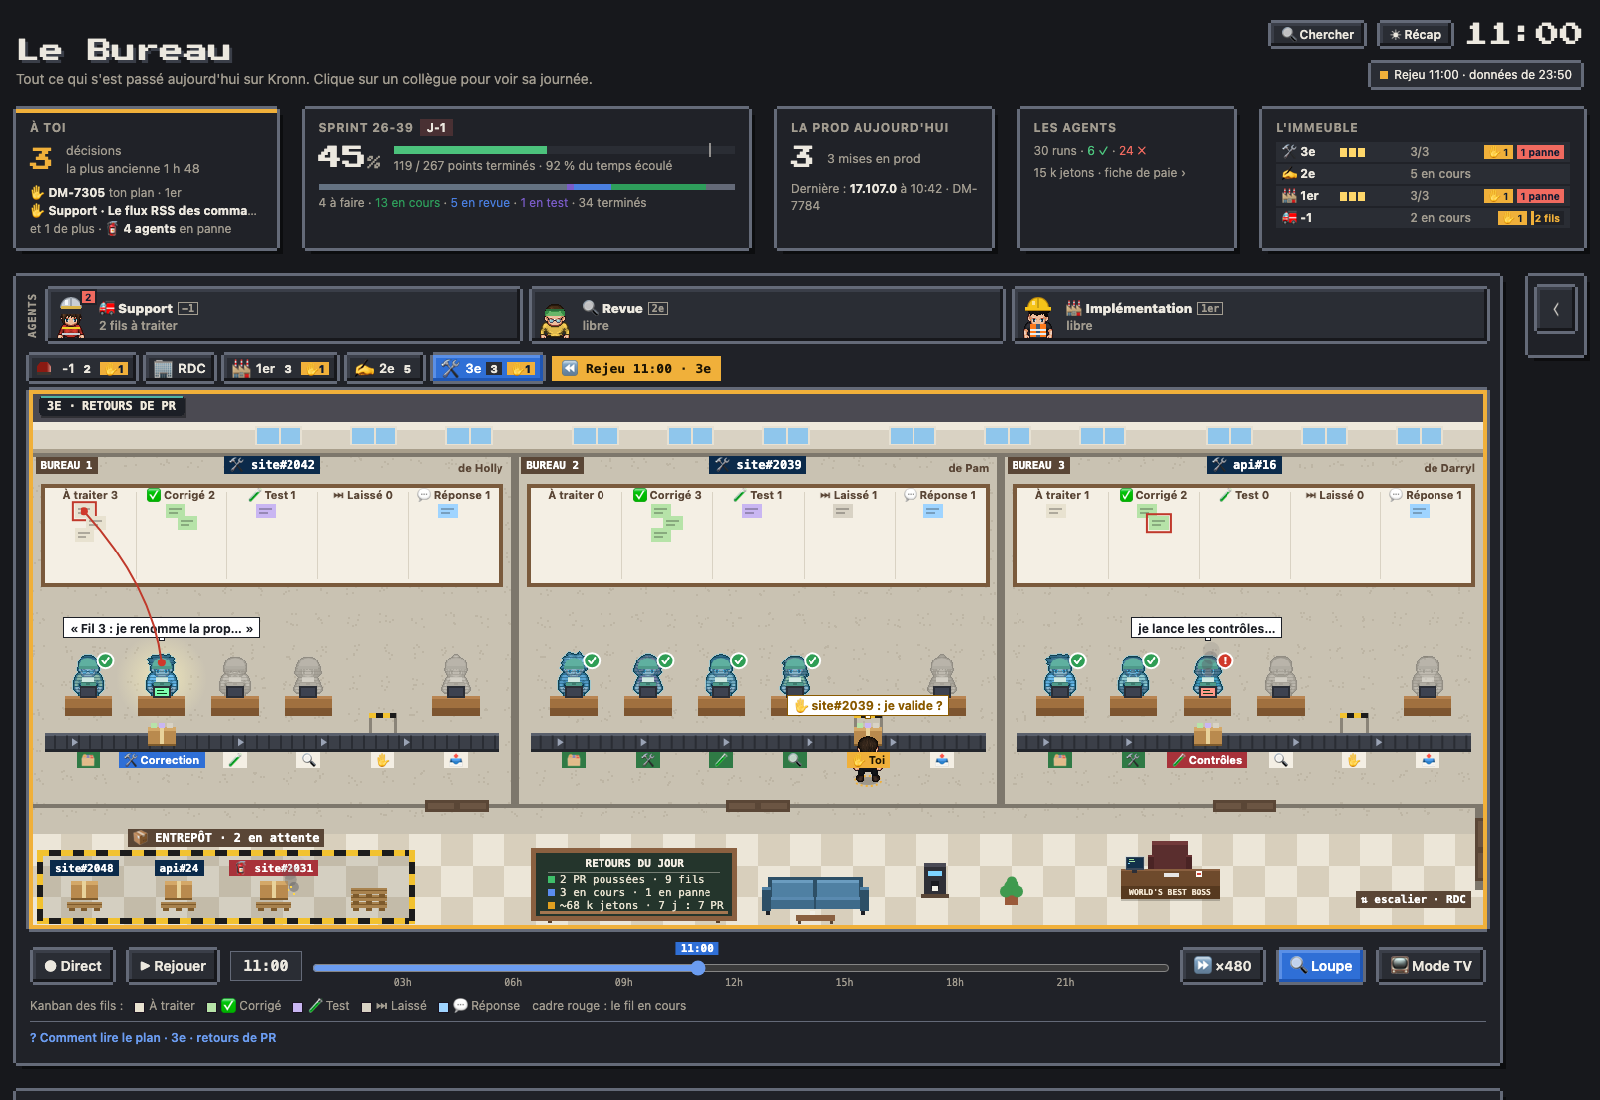
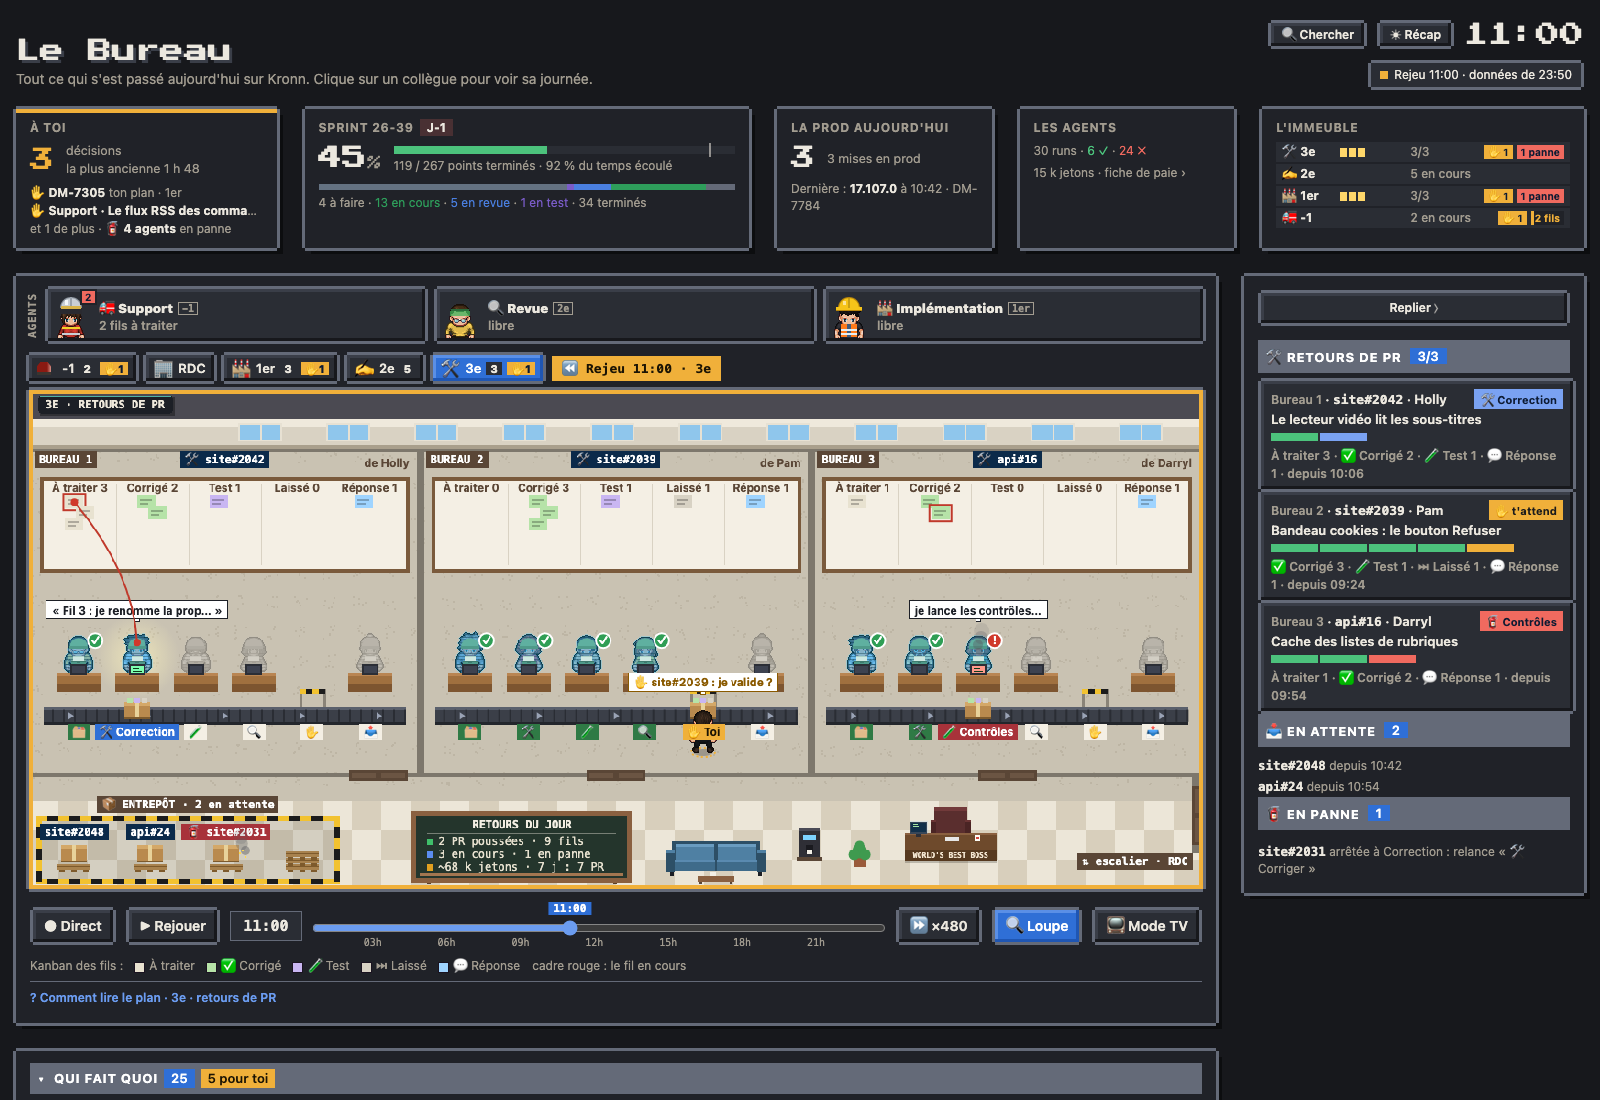
feat(etages): le 3e à 40 cases : bureaux de 13,3 cases, Kanban sans pictogramme sur le plan

diff --git a/page/src/68-retours.js b/page/src/68-retours.js
@@ -18,6 +18,7 @@ const RT_POSTES=[{k:'prepare',i:'🗂',n:'Préparation',d:'récupère les fils d
 const RT_COLS=[{k:'a_traiter',n:'À traiter',c:'#e8e2d0'},{k:'corrige',n:'✅ Corrigé',c:'#b6e3a8'},{k:'test',n:'🧪 Test',c:'#c9b6f2'},
   {k:'laisse',n:'⏭ Laissé',c:'#d8d2c4'},{k:'reponse',n:'💬 Réponse',c:'#9fd4ff'}];
 // « Comment lire le plan » au 3e (46-legende.js) : la légende du Kanban, puis les onglets ; les postes viennent de RT_POSTES
+const rtColTxt=c=>c.n.replace(/^[^\p{L}\d]+\s/u,''); // l'en-tête sur le plan, sans son pictogramme
 const RT_HELP={bar:()=>'<span>Kanban des fils :</span>'+legSwatches(Object.fromEntries(RT_COLS.map(c=>[c.k,[c.c,c.n]])))+'<span>cadre rouge : le fil en cours</span>',postes:()=>[['',RT_POSTES]],
   qui:'<p><b>Agents</b> : un par poste, en chirurgiens. Toute l\'équipe monte avec la PR et reste jusqu\'au push ; au bureau 1 libre, elle somnole.</p><p><b>Bernard</b> sort de la porte de l\'escalier avec la PR et la redescend une fois poussée.</p><p>Un agent en gris pâle : son poste attend, personne n\'y travaille en ce moment (au RDC, la couleur d\'un hologramme dit sa famille, pas son activité).</p>'+
     '<p><b>Le boss</b>, à son bureau du couloir, va à la barrière du bureau qui attend depuis le plus longtemps ; les autres attendent leur tour. Ici, ta décision, c\'est la barrière.</p>',
@@ -25,17 +26,17 @@ const RT_HELP={bar:()=>'<span>Kanban des fils :</span>'+legSwatches(Object.fromE
     '<p><b>Le couloir</b>, de gauche à droite : l\'entrepôt (une palette par PR qui attend un bureau, les pannes en rouge), la porte du bureau 1, le tableau RETOURS DU JOUR (PR poussées et fils, en cours et pannes, jetons ; le détail est dans la page « Retours · bilan »), le banc, le café, le bureau du boss et l\'escalier.</p>',
   moments:'<p><b>✋ À toi</b> : les corrections attendent ta validation.</p><p><b>🧯 Contrôles rouges</b> : le correctif est annulé, la PR attend une relance.</p><p><b>📤 Poussée</b> : les réponses sont postées, Bernard redescend la PR.</p>'};
 const RT_ST={ok:['ok','a travaillé'],run:['run','au travail'],err:['err','en panne'],gate:['wait','t\'attend'],wait:['','attend son tour']};
-// une rangée de trois bureaux au-dessus du couloir : 46 × 17 cases (AT_ROWS, 68-atelier.js)
+// une rangée de trois bureaux au-dessus du couloir : 40 × 17 cases, comme le RDC en largeur (AT_ROWS, 68-atelier.js)
 AT_ROWS[3]=17;
-const RT_N=3, RT_W=46/3, RT_H=11.2, RT_Y=2, RT_HALL=[13.2,17], RT_LANE=14.2*AT_TS;
+const RT_N=3, RT_COLS_N=AT_W/AT_TS, RT_W=RT_COLS_N/3, RT_H=11.2, RT_Y=2, RT_HALL=[13.2,17], RT_LANE=14.2*AT_TS;
 // le couloir, de gauche à droite : l'entrepôt (une zone de palettes au sol, comme au 1er et au 2e), la porte du bureau 1
 // juste après, le tableau RETOURS DU JOUR, le banc, le café, le bureau du boss, la porte de l'escalier
-const RT_DEPOT={x0:.25*AT_TS,x1:12.2*AT_TS,y0:14.5*AT_TS,y1:16.85*AT_TS}, RT_DOOR1=13.5*AT_TS;
-const RT_WINDOWS=[7,10,13,17,20,23,27,30,33,37,40,43]; // en cases : à droite du nom de l'étage, comme au RDC
+const RT_DEPOT={x0:.25*AT_TS,x1:10.6*AT_TS,y0:14.5*AT_TS,y1:16.85*AT_TS}, RT_DOOR1=11.9*AT_TS;
+const RT_WINDOWS=[7,10,13,16,19,22,25,28,31,34,37]; // en cases : à droite du nom de l'étage, comme au RDC
 // RT_STAIRS : derrière la porte de l'escalier, au bout du couloir dans le mur de droite comme l'entrée du RDC (stairDoor,
 // 68-atelier.js) ; Bernard en sort et y rentre
-const RT_DESK={x:36*AT_TS,y:15.6*AT_TS}, RT_STAIRS={x:46*AT_TS+50,y:RT_LANE};
-const RT_STAIR={x:46*AT_TS-12,y:13.5*AT_TS,w:12,h:2*AT_TS,vert:true,wall:[46*AT_TS-12,13.2*AT_TS,12,2.6*AT_TS]}, RT_EXIT={x:46*AT_TS-30,y:13.5*AT_TS-12};
+const RT_DESK={x:31.4*AT_TS,y:15.6*AT_TS}, RT_STAIRS={x:AT_W+50,y:RT_LANE};
+const RT_STAIR={x:AT_W-12,y:13.5*AT_TS,w:12,h:2*AT_TS,vert:true,wall:[AT_W-12,13.2*AT_TS,12,2.6*AT_TS]}, RT_EXIT={x:AT_W-30,y:13.5*AT_TS-12};
 let RETOURS=null, RTSEL=null, RT_KB=null, RT_HITS=[], RT_LIT=[];
 let RTPOSTE=null, RTQ=false; // la fiche d'un poste du bureau ouvert (clic sur son agent) ; la file du couloir
 function readRetours(src){
@@ -148,7 +149,7 @@ const rtHome=()=>({x:RT_DESK.x,y:RT_DESK.y}); // assis à son bureau du couloir
 // ---------- décor ----------
 function rtBackground(){
   const c=document.createElement('canvas');c.width=AT_W;c.height=AT_H;const g=c.getContext('2d'), T=AT_TS;
-  for(let y=0;y<AT_ROWS[3];y++)for(let x=0;x<46;x++)drawFloor(g,x,y,y>=RT_HALL[0]&&y<RT_HALL[1]?'tiles':'carpet');
+  for(let y=0;y<AT_ROWS[3];y++)for(let x=0;x<RT_COLS_N;x++)drawFloor(g,x,y,y>=RT_HALL[0]&&y<RT_HALL[1]?'tiles':'carpet');
   R(g,0,0,AT_W,T,'#4b4a52');R(g,0,T,AT_W,8,'#efe9dc');R(g,0,T+8,AT_W,24,'#d9d2c3');R(g,0,T+28,AT_W,4,'#a99f8c');
   for(const z of RT_G){R(g,z.x0,z.y0,z.w,4,'#7d776c');R(g,z.x0,z.y0+z.h-4,z.w,4,'#7d776c');R(g,z.x0,z.y0,4,z.h,'#7d776c');R(g,z.x0+z.w-4,z.y0,4,z.h,'#7d776c');
     woodDoor(g,z.door.x-T,z.y0+z.h-8,2*T,12,2,false);} // la porte en bois, sur le couloir
@@ -163,17 +164,20 @@ function rtBoard(z,r){
   const {x,y,w,h}=z.kb;R(ctx,x-4,y-4,w+8,h+8,'#7a5a3c');R(ctx,x,y,w,h,'#f4efe4');
   const cw=w/RT_COLS.length;let hl=null;
   RT_COLS.forEach((c,j)=>{const cx=x+j*cw, l=r?(r.fils||[]).filter(f=>f.col===c.k):[];if(j)R(ctx,cx,y+4,1,h-8,'#d9d2c3');
-    atTxt(c.n+(r?' '+l.length:''),cx+cw/2,y+11,'#5a4636','bold 11px system-ui,sans-serif');
+    // à 40 cases, une colonne fait ~2,5 cases : sur le plan, l'en-tête n'a pas de pictogramme (la couleur des post-its le dit ;
+    // la légende et la fiche le gardent)
+    const f='bold 12px system-ui,sans-serif', t=rtColTxt(c)+(r?' '+l.length:'');
+    atTxt(t,cx+cw/2,y+12,'#5a4636',f);
     l.slice(0,6).forEach((f,q)=>{const px=cx+cw/2-10+(q%2?6:-6), py=y+16+q*12;rtPostit(px,py,c.c,f.cur);if(f.cur)hl={x:px+10,y:py+7};});});
   atHitRt('board',x,y,w,h,{i:z.i});
   return hl;
 }
 function rtLate(people,f,y){people.push([{pos:{x:0,y:y==null?1e6:y}},null,false,f]);}
-const rtPill=(p,s,x,y)=>atPill(atPosteLbl(p,['run','err','gate'].includes(s)),x,y,{run:'#2f6fd6',ok:'#2f7a45',err:'#a8323a',gate:WAIT_BG}[s]||'#f4efe4',s==='gate'?WAIT_INK:s?'#fff':'#3a3530','bold 11px system-ui,sans-serif');
+const rtPill=(p,s,x,y)=>atPill(atPosteLbl(p,['run','err','gate'].includes(s)),x,y,{run:'#2f6fd6',ok:'#2f7a45',err:'#a8323a',gate:WAIT_BG}[s]||'#f4efe4',s==='gate'?WAIT_INK:s?'#fff':'#3a3530','bold 12px system-ui,sans-serif');
 // ---------- un bureau ----------
 function rtRoom(r,i,now,people){
   const z=RT_G[i], T=AT_TS, lv=RT_MEM.leaving[i];
-  rtLate(people,()=>atPill('BUREAU '+(i+1),z.x0+38,z.y0+16,'#5a4636','#fff','bold 11px ui-monospace,Menlo,monospace'),1);
+  rtLate(people,()=>atPill('BUREAU '+(i+1),z.x0+40,z.y0+16,'#5a4636','#fff','bold 12px ui-monospace,Menlo,monospace'),1);
   const hl=rtBoard(z,r);
   atBelt(z.x0+.5*T,z.ry,z.w-T,.6*T,!!r,now,1);
   if(!r){ // libre : les bureaux éteints ; au bureau 1, l'équipe somnole à son poste, ailleurs personne
@@ -187,11 +191,11 @@ function rtRoom(r,i,now,people){
     atHitRt('room',z.x0,z.y0,z.w,z.h,{i});return;
   }
   const cur=rtCur(r), boss=RT_MEM.boss, here=boss&&boss.target===i&&boss.arrived;
-  rtLate(people,()=>{atPill('🛠 '+rtName(r),z.x0+z.w/2,z.y0+16,'#0b2a4a','#fff','bold 12px ui-monospace,Menlo,monospace');const w=rtWho(r);if(w)atTxt('de '+w,z.x0+z.w-12,z.y0+19,'#5a4636','bold 11px system-ui','right');},1);
+  rtLate(people,()=>{atPill('🛠 '+rtName(r),z.x0+z.w/2,z.y0+16,'#0b2a4a','#fff','bold 12px ui-monospace,Menlo,monospace');const w=rtWho(r);if(w)atTxt('de '+w,z.x0+z.w-12,z.y0+20,'#5a4636','bold 12px system-ui','right');},1);
   RT_POSTES.forEach((p,j)=>{const {x,y}=z.pts[j], s=rtState(r,p);
     if(p.gate){R(ctx,x-14,z.ry-20,3,20,'#8a8478');R(ctx,x+12,z.ry-20,3,20,'#8a8478');for(let q=0;q<4;q++)R(ctx,x-14+q*7,z.ry-20,7,5,q%2?'#1c1c1c':'#f2c230');
       if(s==='gate'&&!here)rtLate(people,()=>{if(waitOn(now))atBadge(x,z.ry-34,'✋',WAIT_BG);
-        if(boss&&boss.target!=null&&boss.target!==i)atPill('✋ en file : le boss est au bureau '+(boss.target+1),x,z.ry-56,WAIT_BG,WAIT_INK,'bold 11px system-ui,sans-serif');},1e6);
+        if(boss&&boss.target!=null&&boss.target!==i)atPill('✋ en file : le boss est au bureau '+(boss.target+1),x,z.ry-56,WAIT_BG,WAIT_INK,'bold 12px system-ui,sans-serif');},1e6);
       rtLate(people,()=>rtPill(p,s,x,z.ry+.6*T+12),1e6-2);atHitRt('agent',x-16,z.ry-40,32,48,{i,k:p.k});return;}
     rtLate(people,()=>rtPill(p,s,x,z.ry+.6*T+12),1e6-2);
     const id=rtCrewId(i,p.k), pop=lvPop(RT_LV,id,s==='ok',now);
@@ -237,15 +241,15 @@ function rtJourAt(t){
   return {pousses:Math.max(0,n('pousses')-after),cours:rtRoomsAt(t).length,pannes,semaine:Math.max(0,n('semaine')-after),fils:n('fils'),tok:n('tok')};
 }
 function rtDayBoard(){
-  const S=AT_TS, j=(RETOURS&&RETOURS.jour)||{}, n=k=>+j[k]||0, bx=16*S, by=14.6*S, bw=6.2*S, bh=64, ink='#e8e2d0';
+  const S=AT_TS, j=(RETOURS&&RETOURS.jour)||{}, n=k=>+j[k]||0, bx=13.2*S, by=14.5*S, bw=7.2*S, bh=68, ink='#e8e2d0';
   R(ctx,bx+12,by+bh,4,7,'#5a3e28');R(ctx,bx+bw-16,by+bh,4,7,'#5a3e28');
   R(ctx,bx-5,by-5,bw+10,bh+10,'#8a6040');R(ctx,bx,by,bw,bh,'#24352c');R(ctx,bx+4,by+bh-5,bw-8,3,'#a37650');
-  atTxt('RETOURS DU JOUR',bx+bw/2,by+14,'#f4efe4','bold 11px ui-monospace,Menlo,monospace');R(ctx,bx+12,by+19,bw-24,1,'rgba(244,239,228,.4)');
+  atTxt('RETOURS DU JOUR',bx+bw/2,by+14,'#f4efe4','bold 12px ui-monospace,Menlo,monospace');R(ctx,bx+12,by+19,bw-24,1,'rgba(244,239,228,.4)');
   const r=rtLive()||releveNear(RETOURS)?null:rtJourAt(T), rows=r?[['#3fbf6a',[plural(r.pousses,'PR poussée','PR poussées')+' · ',ink],[relTxt(r.fils+' fils'),REL_INK]],
     ['#5b8def',[r.cours+' en cours · '+r.pannes+' en panne',ink]],['#e0a020',[relTxt(Math.round(r.tok/1e3)+' k jet.'),REL_INK],[' · 7 j : '+r.semaine+' PR',ink]]]
     :[['#3fbf6a',[plural(n('pousses'),'PR poussée','PR poussées')+' · '+n('fils')+' fils',ink]],['#5b8def',[n('cours')+' en cours · '+n('pannes')+' en panne',ink]],
       ['#e0a020',['~'+Math.round(n('tok')/1e3)+' k jetons · 7 j : '+n('semaine')+' PR',ink]]];
-  rows.forEach(([c,...segs],k)=>{R(ctx,bx+12,by+24+k*13,7,7,c);atSegs(segs,bx+24,by+31+k*13,'11px ui-monospace,Menlo,monospace');});
+  rows.forEach(([c,...segs],k)=>{R(ctx,bx+12,by+25+k*14,7,7,c);atSegs(segs,bx+24,by+32+k*14,'12px ui-monospace,Menlo,monospace');});
 }
 // l'entrepôt : une zone de palettes au sol, sans murs, balisée d'une bande jaune et noire ; une palette par PR qui attend un
 // bureau (son étiquette : la PR), puis les pannes, étiquette rouge et fumée ; le panneau centré au-dessus. Au-delà de
@@ -261,7 +265,7 @@ function rtDepot(now){
   for(let k=0;k<RT_PAL;k++){const x=x0+(k+.5)*sw, it=shown[k];
     if(it){atPallet(x,y);atCarton(x,y-9,(it.panne?'🧯 ':'')+rtName(it),it.panne?'#a8323a':'#0b2a4a',-22);if(it.panne)atSmoke(x+20,y-10,now+k*300);
       atHitRt('queue',x-sw/2+4,y-42,sw-8,54,{run:it.run,item:it});}
-    else if(more&&k===RT_PAL-1){atPallet(x,y);atPill('+'+more,x,y-6,'#5b6070','#fff','bold 11px ui-monospace,Menlo,monospace');}
+    else if(more&&k===RT_PAL-1){atPallet(x,y);atPill('+'+more,x,y-6,'#5b6070','#fff','bold 12px ui-monospace,Menlo,monospace');}
     else if(k===RT_PAL-1){atPallet(x,y);atPallet(x,y-7);atPallet(x,y-14);}}
   atPill('📦 ENTREPÔT · '+w+' en attente',(x0+x1)/2,y0-8,'#5a4636','#fff','bold 12px ui-monospace,Menlo,monospace');
 }
@@ -269,14 +273,14 @@ function rtHall(slots,now,people){
   const T=AT_TS;
   rtDepot(now);
   rtLate(people,rtDayBoard,1e6-1);
-  const bx=24.8*T, by=16.2*T;atSofa(bx,by);rtLate(people,()=>atSofaFront(bx,by),by+10); // le banc
-  atCoffee(28.6*T,15.9*T);atPlant(31*T,16.2*T);
-  rtLate(people,()=>atPill('⇅ escalier · RDC',46*T-74,RT_STAIR.y+RT_STAIR.h+22,'#5a4636','#fff','bold 11px ui-monospace,Menlo,monospace'),1e6);
+  const bx=23.4*T, by=16.2*T;atSofa(bx,by);rtLate(people,()=>atSofaFront(bx,by),by+10); // le banc
+  atCoffee(26.6*T,15.9*T);atPlant(28.3*T,16.2*T);
+  rtLate(people,()=>atPill('⇅ escalier · RDC',AT_W-74,RT_STAIR.y+RT_STAIR.h+22,'#5a4636','#fff','bold 12px ui-monospace,Menlo,monospace'),1e6);
 }
 // ---------- les équipes : dès qu'une PR a un bureau, ses cinq agents montent derrière Bernard, l'un après l'autre, et
 // restent jusqu'au push ; le bureau 1 garde toujours la sienne (67-vie.js) ----------
 let RT_LV=lvMem();
-const RT_LV_H={x:44.6*AT_TS,y:RT_LANE}, rtCrewId=(i,k)=>'b'+i+':'+k;
+const RT_LV_H={x:AT_W-1.4*AT_TS,y:RT_LANE}, rtCrewId=(i,k)=>'b'+i+':'+k;
 function rtCrewSpot(i,j){const g=RT_G[i], T=AT_TS, p=g.pts[j], lane={x:g.door.x,y:RT_LANE}, yy=g.y0+g.h-.9*T; // sous le tapis (la porte est en dessous)
   return {id:'d'+i+':'+j,path:[RT_LV_H,lane,{x:g.door.x,y:yy},{x:p.x,y:yy},p],dir:'down',seat:true};}
 function rtCrewWant(slots){
@@ -333,7 +337,7 @@ const RT_NIGHT={};
 function rtNight(slots,people,now){
   const T_=AT_TS, rooms=RT_G.map((z,i)=>[Math.round(z.x0/T_),Math.round(z.y0/T_),Math.round((z.x0+z.w)/T_)-1,Math.round((z.y0+z.h)/T_)-1,!!slots[i]]);
   floorNight(RT_NIGHT,{rooms,closed:!atOpen(),track:RT_LIT,spots:[...floorPeopleSpots(people),...RT_LIT.map(q=>({x:q.x,y:q.y-26,r:42,a:.95})),
-    floorBossLamp(RT_DESK.x,RT_DESK.y),{x:46*T_-20,y:RT_LANE,r:1.6*T_,a:.45},exitHalo(RT_EXIT.x,RT_EXIT.y)]},now); // la porte de l'escalier
+    floorBossLamp(RT_DESK.x,RT_DESK.y),{x:AT_W-20,y:RT_LANE,r:1.6*T_,a:.45},exitHalo(RT_EXIT.x,RT_EXIT.y)]},now); // la porte de l'escalier
   if(RT_NIGHT.lv)exitSign(RT_EXIT.x,RT_EXIT.y);
 }
 // ---------- l'image ----------

diff --git a/tests/retours.test.js b/tests/retours.test.js
@@ -23,7 +23,7 @@ test("l'étage existe en démo ; ses onglets dans l'ordre des étages, le 3e en 
   p.run('setFloor(3);');
   assert.equal(J('FLOOR'), 3);
   assert.deepEqual(J('[cv.width, cv.height]'), J('[AT_W, AT_H]'));
-  assert.deepEqual(J('[cv.width, cv.height]'), [46 * 32, 17 * 32], 'une rangée de bureaux et le couloir : 46 × 17 cases');
+  assert.deepEqual(J('[cv.width, cv.height]'), [40 * 32, 17 * 32], 'une rangée de bureaux et le couloir : 40 × 17 cases, comme le RDC en largeur');
 });
 
 test('une PR garde son bureau ; la suivante prend le premier bureau libre ; trois bureaux au plus, les autres sur les palettes', () => {
@@ -271,7 +271,7 @@ test("une rangée : trois bureaux côte à côte en haut, le couloir dessous ; l
   assert.equal(J('RT_N'), 3);
   assert.equal(J('AT_ROWS[3]'), 17);
   assert.ok(G.every(g => g.y0 === G[0].y0), 'une seule rangée');
-  assert.deepEqual(G.map(g => Math.round(g.x0 / T)), [0, 15, 31]);
+  assert.deepEqual(G.map(g => Math.round(g.x0 / T)), [0, 13, 27], 'trois bureaux de 13,3 cases');
   const hall0 = J('RT_HALL[0]') * T;
   assert.ok(G.every(g => Math.abs(g.y0 + g.h - hall0) < 1 && g.door.y === g.y0 + g.h), 'les portes sur le couloir');
   assert.ok(J('RT_LANE') > hall0 && J('RT_LANE') < 17 * T, 'on marche dans le couloir');
@@ -279,7 +279,7 @@ test("une rangée : trois bureaux côte à côte en haut, le couloir dessous ; l
   assert.ok(G[0].door.x - T >= D.x1 && G[0].door.x - T - D.x1 < 2 * T, 'la porte du bureau 1 : juste après les palettes');
   assert.deepEqual(G.slice(1).map(g => g.door.x), G.slice(1).map(g => g.x0 + g.w / 2), 'les autres au milieu de leur mur');
   // le couloir, de gauche à droite : entrepôt, porte 1, tableau, banc, café, bureau du boss, escalier
-  assert.ok(D.x1 < G[0].door.x && G[0].door.x < 16 * T && 22.2 * T < 24.8 * T && 28.6 * T < J('RT_DESK.x') && J('RT_DESK.x') < J('RT_STAIR.x'));
+  assert.ok(D.x1 < G[0].door.x && G[0].door.x < 13.2 * T && 20.4 * T < 23.4 * T && 26.6 * T < J('RT_DESK.x') && J('RT_DESK.x') < J('RT_STAIR.x'));
 });
 
 test("l'entrepôt : une palette par PR qui attend un bureau, avec son étiquette, la panne en rouge ; le panneau centré au-dessus", () => {
@@ -303,4 +303,10 @@ test("l'entrepôt : une palette par PR qui attend un bureau, avec son étiquette
   p.run(`RETOURS.queue.push({run: 'q3', repo: 'dm/api', pr: '25', since: RETOURS.queue[0].since});`);
   assert.deepEqual(draw().map(x => x[0]).filter(s => !/ENTREPÔT/.test(s)), ['site#2050', 'site#2048', 'api#24', '+2']);
   assert.equal(J('rtSlots().filter(Boolean).length'), 3);
+});
+
+test('sur le plan, les en-têtes du Kanban n\'ont pas de pictogramme, tous pareils ; la légende les garde', () => {
+  const {J} = page();
+  assert.deepEqual(J('RT_COLS.map(rtColTxt)'), ['À traiter', 'Corrigé', 'Test', 'Laissé', 'Réponse']);
+  assert.ok(J('RT_COLS.filter(c => c.n !== rtColTxt(c)).length') >= 4, 'la légende garde les pictogrammes');
 });

diff --git a/guide/fonctionnalites/27-retours.md b/guide/fonctionnalites/27-retours.md
@@ -14,7 +14,7 @@ Le bouton « 🛠 3e » (les retours de PR, au survol) apparaît après « 🏭 
 
 - **Un bureau par PR**, trois côte à côte sur une rangée, au-dessus du couloir. Le nom de la PR (dépôt et numéro) et son auteur sont en haut du bureau. Un bureau libre est éteint et vide, sauf le bureau 1, dont l'équipe somnole à son poste (z Z), comme au 1er.
 - **Le rail des postes**, comme au 1er : 🗂 Préparation, 🛠 Correction, 🧪 Contrôles, 🔍 Diff, ✋ Toi, 📤 Push, les étapes du workflow. Un agent par poste, assis derrière son bureau à écran, en chirurgien (calot, masque et blouse, la tenue de l'agent des retours au RDC). Dès qu'une PR a un bureau, toute l'équipe monte derrière Bernard, l'un après l'autre, et reste à son poste jusqu'au push ; la PR poussée, elle redescend. Sous chaque poste, son icône ; son nom aussi quand il travaille, est en panne ou attend ta validation (au survol, sinon). Même langage qu'aux autres étages : **au travail** (un halo, une bulle), **a travaillé** (✓ à côté de l'agent, comme au 1er), **attend son tour** (silhouette grise), **en panne** (! rouge et fumée : un correctif dont les contrôles restent rouges est annulé). La PR, un carton avec ses post-its, est posée devant le poste en cours.
-- **Le Kanban des fils**, au mur de chaque bureau : une colonne par section de la réponse de l'agent (À traiter, ✅ Corrigé, 🧪 Test, ⏭ Laissé, 💬 Réponse), un post-it par fil de review non résolu. Un **fil rouge** relie le fil que la correction traite en ce moment à l'agent qui s'en occupe. Les post-its changent de colonne en direct : l'agent note son avancement fil par fil (voir Données).
+- **Le Kanban des fils**, au mur de chaque bureau : une colonne par section de la réponse de l'agent (À traiter, ✅ Corrigé, 🧪 Test, ⏭ Laissé, 💬 Réponse ; sur le plan, sans le pictogramme, la couleur des post-its le dit), un post-it par fil de review non résolu. Un **fil rouge** relie le fil que la correction traite en ce moment à l'agent qui s'en occupe. Les post-its changent de colonne en direct : l'agent note son avancement fil par fil (voir Données).
 - **Le boss est toujours là**, assis à son bureau du couloir, le même qu'au RDC. Quand une PR attend ta validation, il se lève, longe le couloir, entre par la porte du bureau et va à la barrière ✋. Il n'y a qu'un boss : il va d'abord au bureau qui attend depuis le plus longtemps, les autres clignotent à leur barrière (« en file : le boss est au bureau 2 ») et il y passe ensuite. Il ressort par où il est entré.
 - **Bernard** sort de la porte de l'escalier avec la PR, la monte à son bureau, y pose le carton, et la redescend une fois les corrections poussées ; le bureau s'éteint.
 - **Le couloir**, de gauche à droite : l'entrepôt, la porte du bureau 1, le tableau noir RETOURS DU JOUR (PR poussées et leurs fils, bureaux au travail et pannes, jetons du jour, PR poussées sur 7 jours ; l'historique est dans [Le bilan des retours](31-retours-bilan.md)), un banc, le café, le bureau du boss et, au bout, la porte de l'escalier : la porte en bois de l'entrée du RDC, dans le mur de droite. Bernard en sort par derrière, elle s'ouvre à son passage ; la nuit, le panneau SORTIE vert s'allume au-dessus, comme au RDC.
